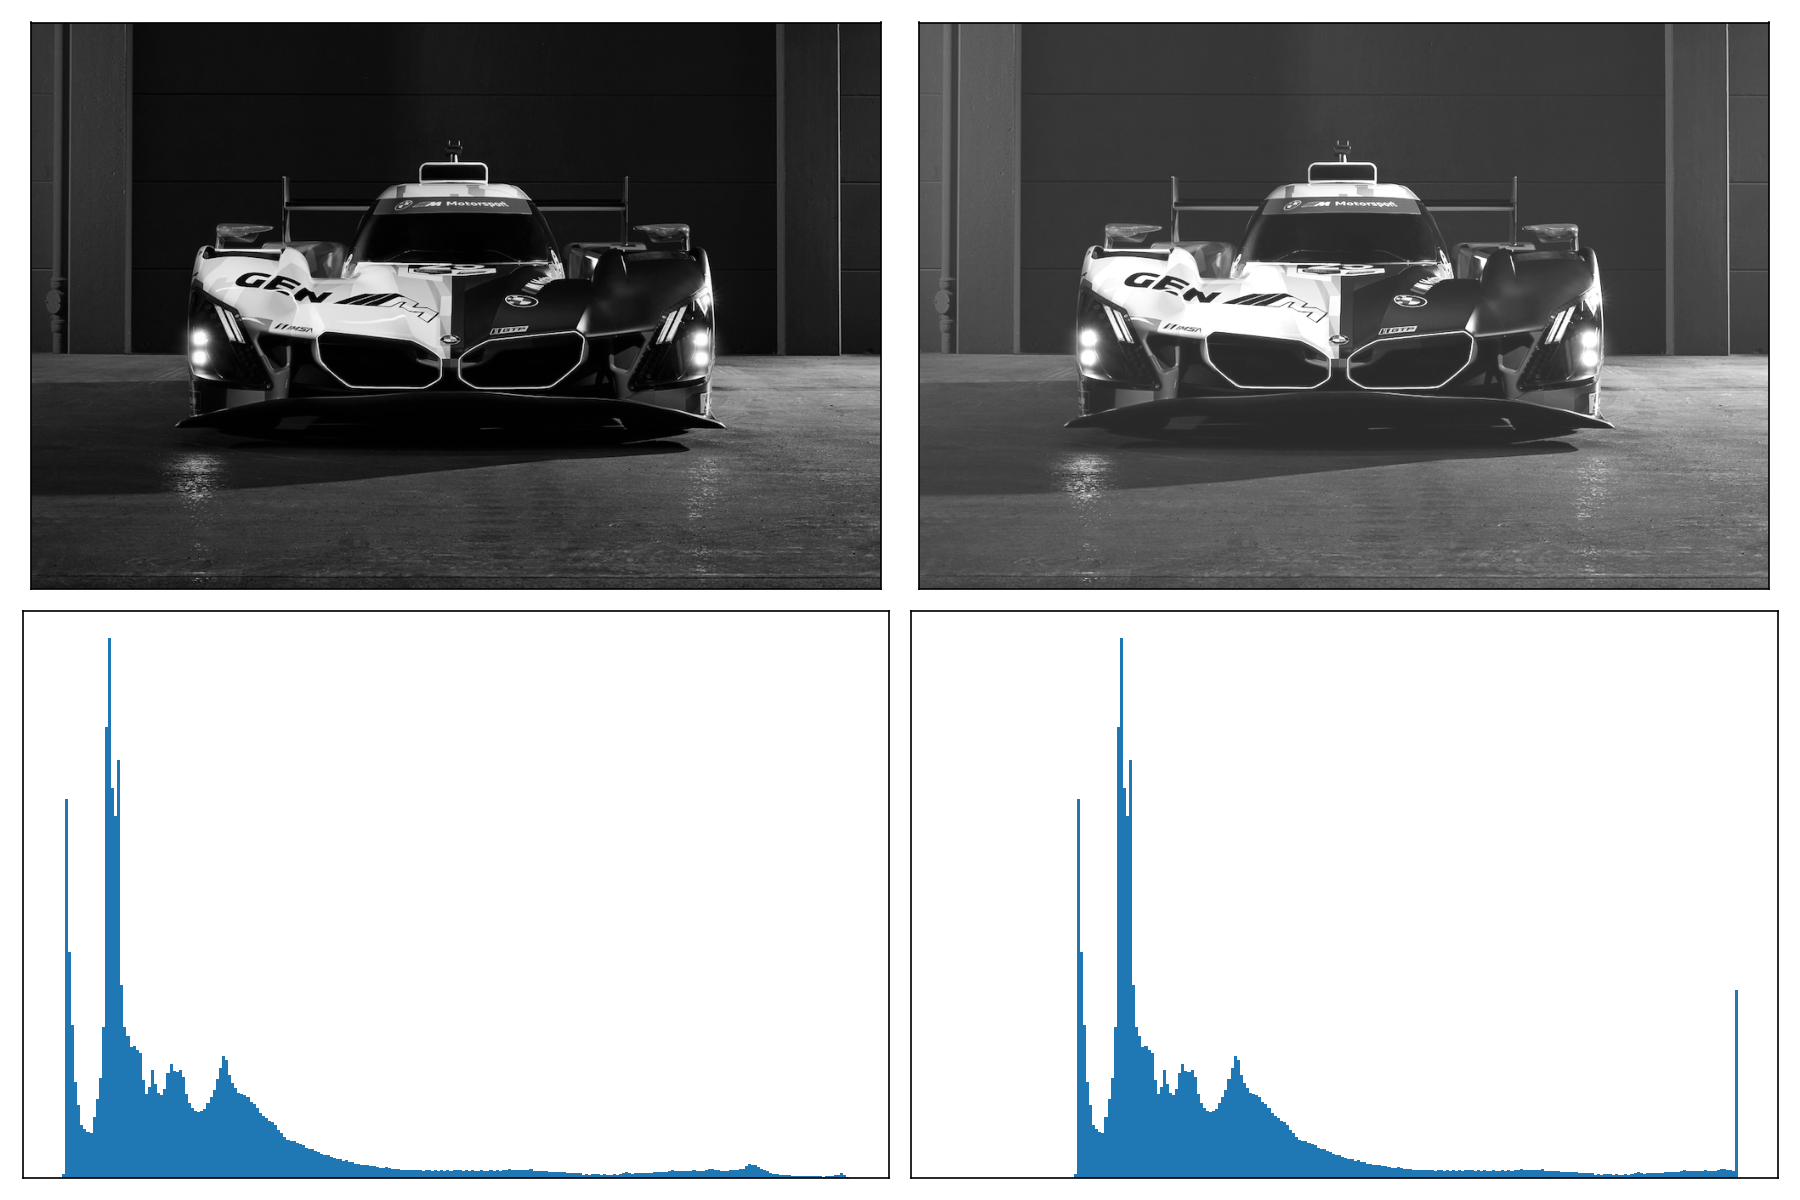
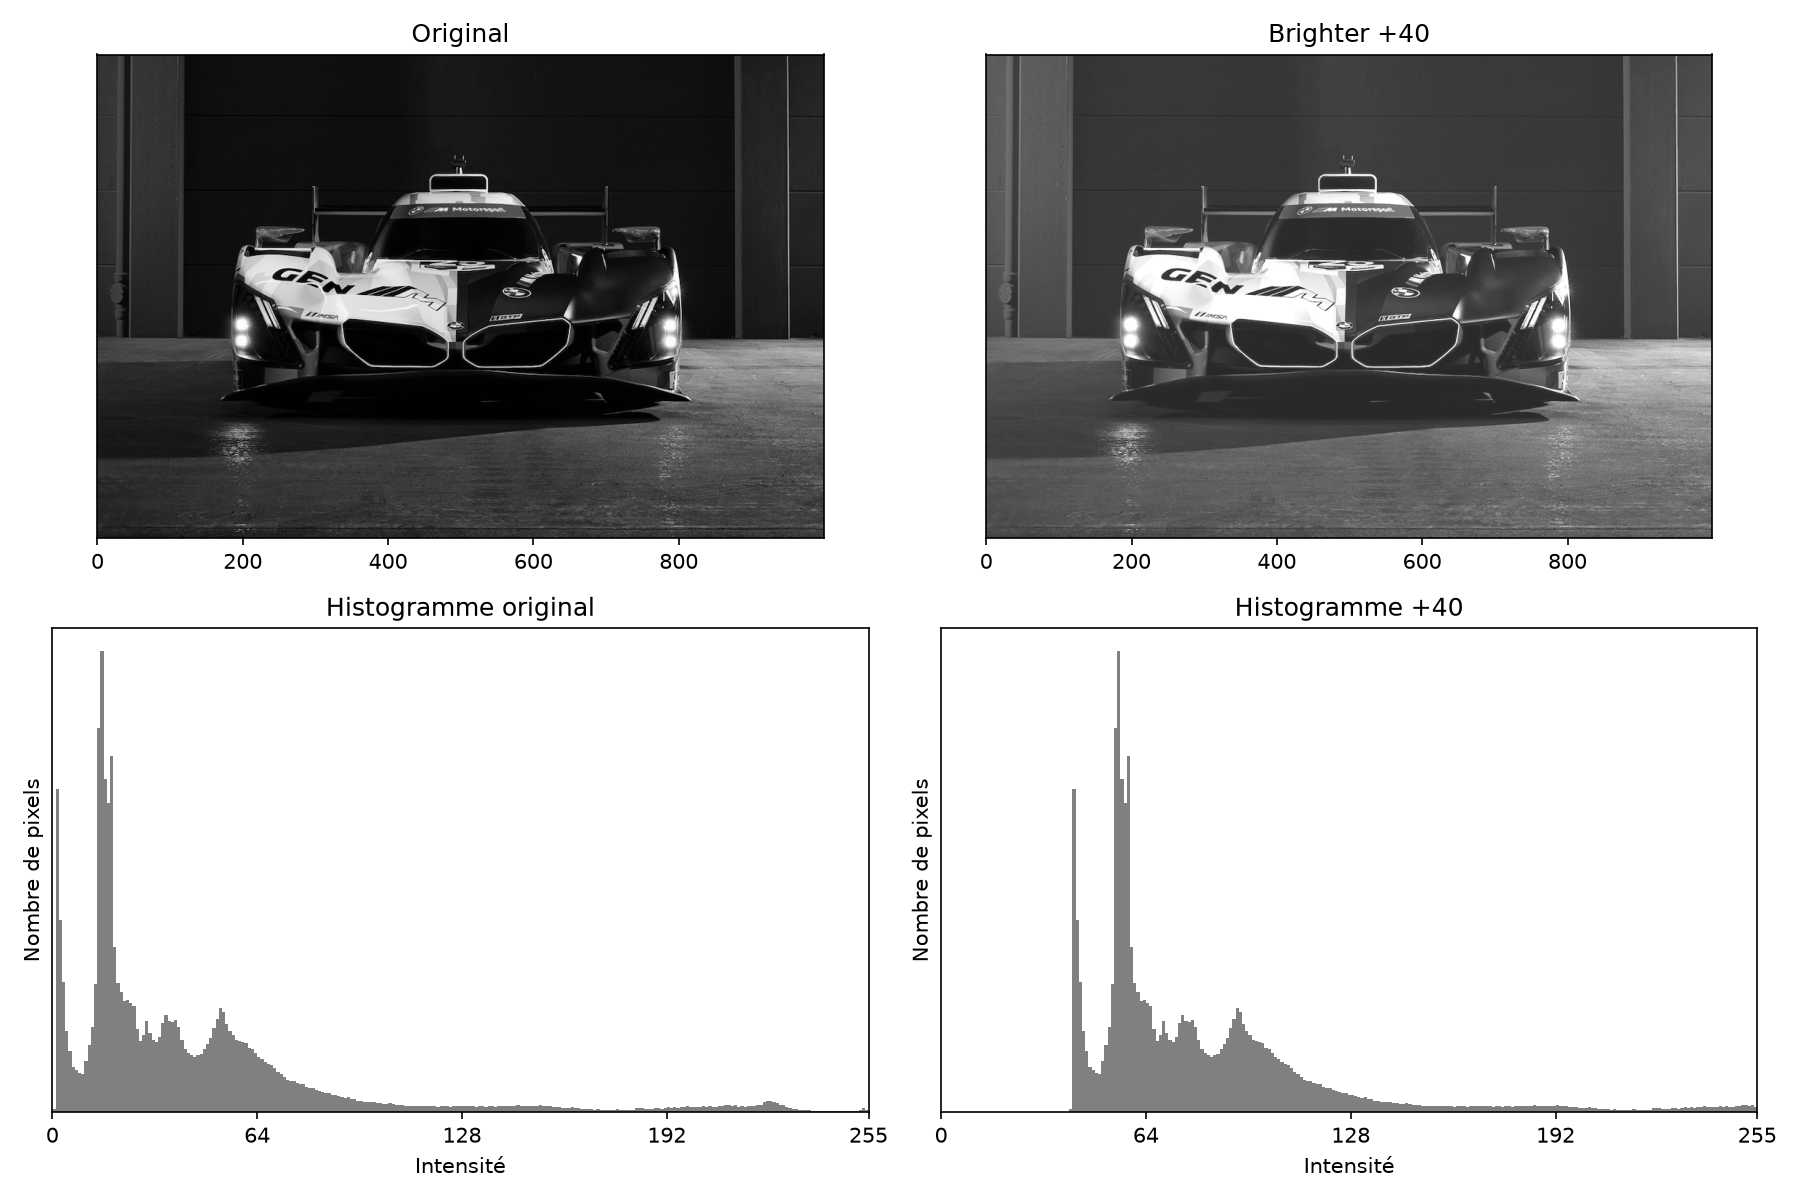
half tp2

diff --git a/plotstp1.py b/plotstp1.py
@@ -51,12 +51,27 @@ G_claire = np.clip(G.astype(np.int16) + 40, 0, 255).astype(np.uint8)
 fig, axes = plt.subplots(2, 2, figsize=(12, 8))
 axes[0, 0].imshow(G, cmap='gray', vmin=0, vmax=255)
 axes[0, 1].imshow(G_claire, cmap='gray', vmin=0, vmax=255)
-axes[1, 0].hist(G.ravel(), bins=256, range=(0, 256))
-axes[1, 1].hist(G_claire.ravel(), bins=256, range=(0, 256))
+axes[0, 0].set_title('Original')
+axes[0, 1].set_title('Brighter +40')
+
+hist1 = axes[1, 0].hist(G.ravel(), bins=256, range=(0, 256), color='gray')
+axes[1, 0].set_title('Histogramme original')
+axes[1, 0].set_xlabel('Intensité')
+axes[1, 0].set_ylabel('Nombre de pixels')
+axes[1, 0].set_xlim(0, 255)
+axes[1, 0].set_xticks([0, 64, 128, 192, 255])
+
+hist2 = axes[1, 1].hist(G_claire.ravel(), bins=256, range=(0, 256), color='gray')
+axes[1, 1].set_title('Histogramme +40')
+axes[1, 1].set_xlabel('Intensité')
+axes[1, 1].set_ylabel('Nombre de pixels')
+axes[1, 1].set_xlim(0, 255)
+axes[1, 1].set_xticks([0, 64, 128, 192, 255])
 
 for ax in axes.flat:
-    ax.set_xticks([])
     ax.set_yticks([])
+    if ax in [axes[1, 0], axes[1, 1]]:
+        ax.set_yticks([])
 
 plt.tight_layout()
 plt.savefig(os.path.join(OUTPUT_DIR, 'brightness.png'), dpi=150)

diff --git a/TP_Image/TP_Image.py b/TP_Image/TP_Image.py
@@ -1,0 +1,33 @@
+from PIL import Image
+import numpy as np
+
+def image_noire(im):
+    t=np.array(im)
+    h, l, r=t.shape
+    for i in range(h):
+        for j in range(l):
+            for k in range(3):
+                t[i,j,k]=0
+    return Image.fromarray(t)
+
+def composante_rouge(im):
+    t=np.array(im)
+    h, l, r=t.shape
+    for i in range(h):
+        for j in range(l):
+            t[i,j,1]=0
+            t[i,j,2]=0
+    return Image.fromarray(t)
+
+
+"""alls"""
+
+cocci=Image.open("499p.jpg")
+cocci_noire=image_noire(cocci)
+cocci_noire.save("cocci_noire.jpg")
+cocci_noire.show()
+
+cocci=Image.open("499p.jpg")
+cocci_red=composante_rouge(cocci)
+cocci_red.save("cocci_red.jpg")
+cocci_red.show()
